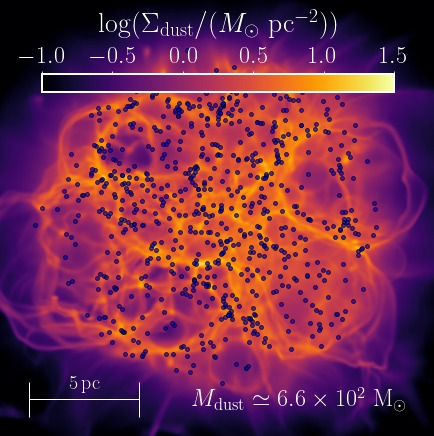
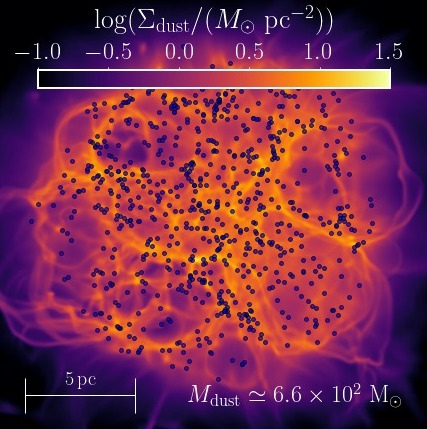
Update cloud image and layout fix

diff --git a/index.html b/index.html
@@ -119,6 +119,8 @@ section{margin-top:3.5rem;display:grid;gap:1rem}
 .figs.two{grid-template-columns:repeat(2,minmax(0,1fr));align-items:start}
 .figs.gallery{grid-template-columns:repeat(2,minmax(0,1fr))}
 .figs.gallery{align-items:end}
+.cloud-figs .fig:first-child .zoom{background:#0d0618}
+.cloud-figs .fig:first-child .zoom img{transform:scale(1.01)}
 .figs.cloud-figs{grid-template-columns:minmax(0,.57fr) minmax(0,1fr);align-items:start}
 .cloud-figs .fig:first-child .zoom{margin-top:4.8%}
 .more-figs{justify-self:start;font:500 .85rem var(--body);color:var(--link);background:transparent;border:1px solid var(--rule);border-radius:6px;padding:.45rem .8rem;cursor:pointer}
@@ -497,7 +499,7 @@ footer{margin-top:4rem;padding-top:1.25rem;border-top:1px solid var(--rule);font
             </ul></div>
           </div>
           <div class="figs gallery cloud-figs">
-            <figure class="fig"><button type="button" class="zoom" aria-label="Enlarge figure"><img src="figs/cloud-simulation-panel.jpg" width="434" height="436" loading="lazy" alt="Dust surface density map of a simulated turbulent star-forming cloud, 5 parsec scale bar"></button>
+            <figure class="fig"><button type="button" class="zoom" aria-label="Enlarge figure"><img src="figs/cloud-simulation-panel.jpg" width="427" height="429" loading="lazy" alt="Dust surface density map of a simulated turbulent star-forming cloud, 5 parsec scale bar"></button>
               <figcaption>Dust surface density in a simulated turbulent cloud; dots mark young stellar sources. <a href="https://arxiv.org/abs/2407.01662">Di Mascia, Pallottini, Sommovigo+25</a></figcaption></figure>
             <figure class="fig"><button type="button" class="zoom" aria-label="Enlarge figure"><img src="figs/cloud-sed-comparison.jpg" width="767" height="527" loading="lazy" alt="Cloud SED from radiative-transfer simulation compared with analytical models for a homogeneous cloud and a cloud shaped by radiation pressure"></button>
               <figcaption>Spectrum of a simulated cloud from SKIRT radiative transfer (blue; intrinsic stellar spectrum dotted) compared with my 1-D analytical model for a homogeneous cloud (green) and a cloud shaped by radiation pressure (magenta). <a href="https://arxiv.org/abs/2407.01662">Di Mascia, Pallottini, Sommovigo+25</a>; model from <a href="https://arxiv.org/abs/2004.09528">Sommovigo+20</a></figcaption></figure>
